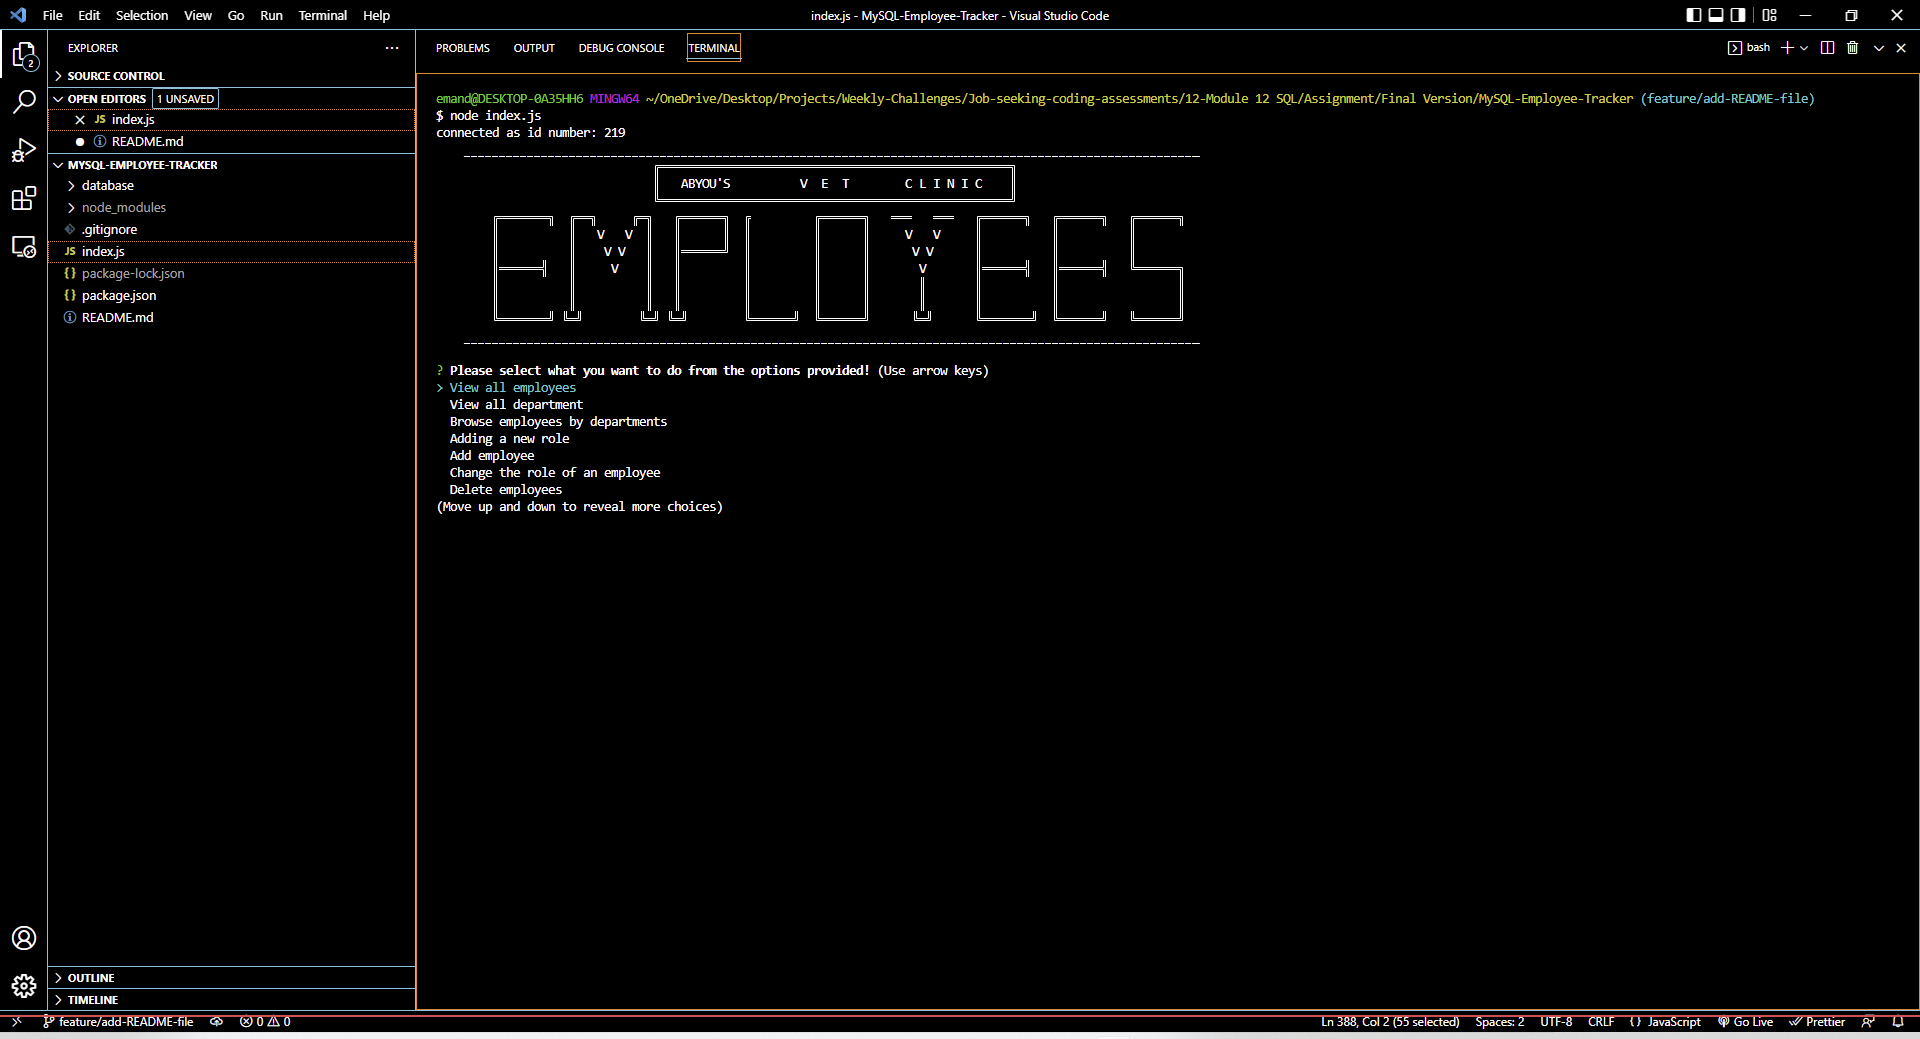
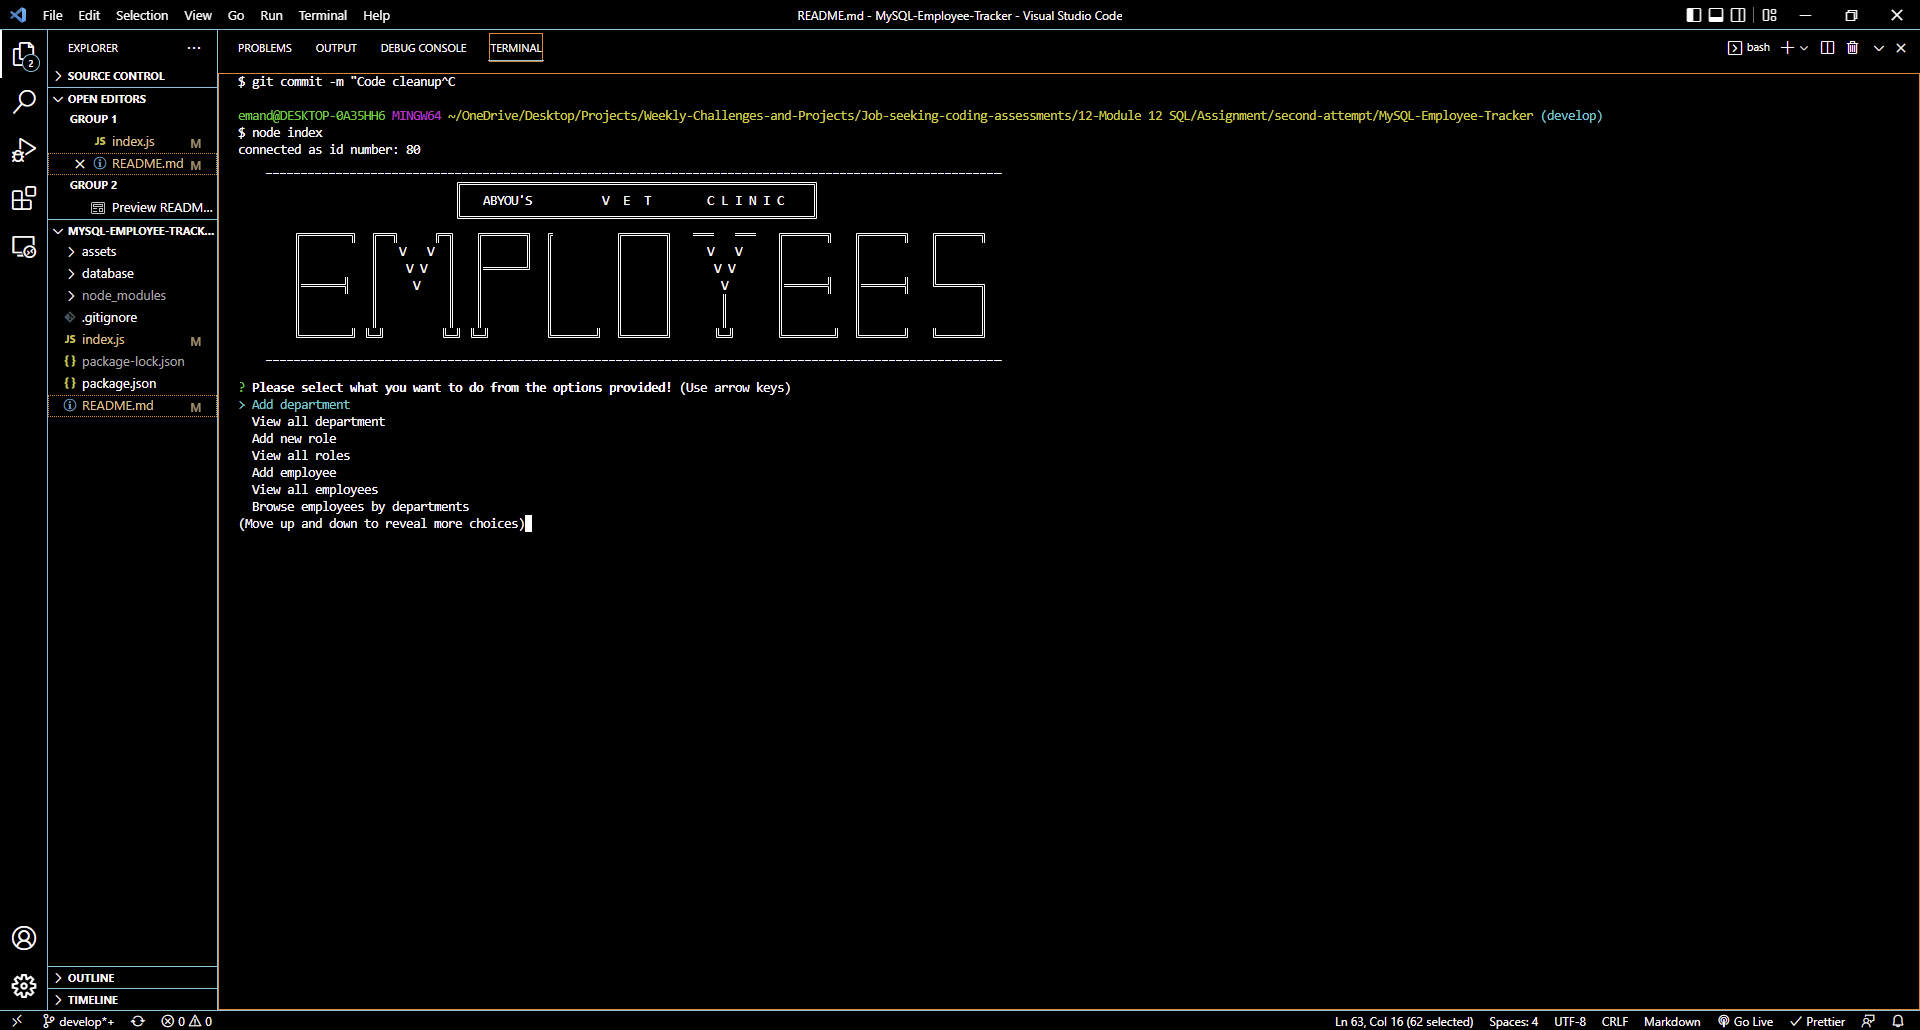
Cleaning up code.

diff --git a/index.js b/index.js
@@ -51,13 +51,13 @@ function promptOne() {
       name: "userSelection",
       message: "Please select what you want to do from the options provided!",
       choices: [
-        "View all employees",
-        "View all department",
-        "View all roles",
-        "Browse employees by departments",
-        "Add new role",
-        "Add employee",
         "Add department",
+        "View all department",
+        "Add new role",
+        "View all roles",
+        "Add employee",
+        "View all employees",
+        "Browse employees by departments",
         "Change the role of an employee",
         "Delete employees",
         "End",
@@ -262,7 +262,7 @@ function addNewRole() {
     });
 }
 
-// Add ne employee
+// Add new employee
 function addNewEmployee() {
   lookupEmployee();
   lookupRole();

diff --git a/README.md b/README.md
@@ -45,7 +45,11 @@ Using the command line, you should run node index.js to start the application.
         - npm i console.table
     As soon as you run the index.js file, the application will launch and you will be able to use it right away
 
-View walk through video here - [Screencastify](https://drive.google.com/file/d/1BaQQ57KShJdeKoe14vOncIriw8Z8gFBO/view)<br>
+View walk through video here
+
+- [Database setup](https://drive.google.com/file/d/15pQMB-2C2QQconTxnf6h-jXSYMLnfjZP/view)
+- [Features](https://drive.google.com/file/d/1BaQQ57KShJdeKoe14vOncIriw8Z8gFBO/view)
+- [Features](https://drive.google.com/file/d/1WlHlltgb03UDGgsAZQq4rr50B6LBibCw/view)<br>
 
 ## License
 
